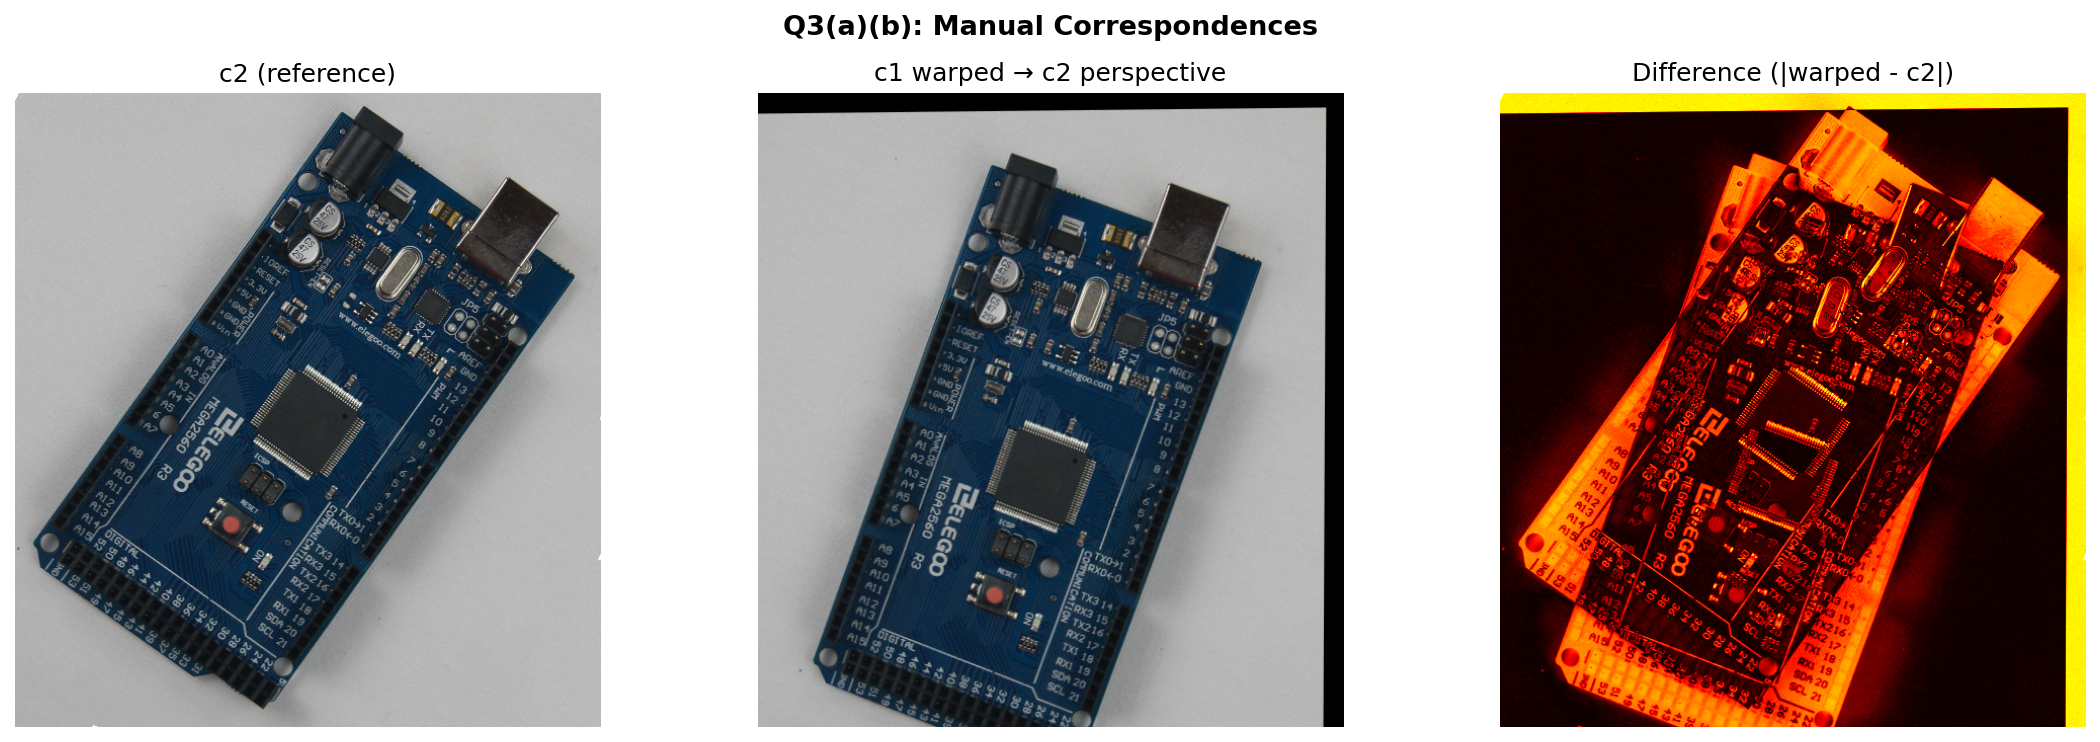
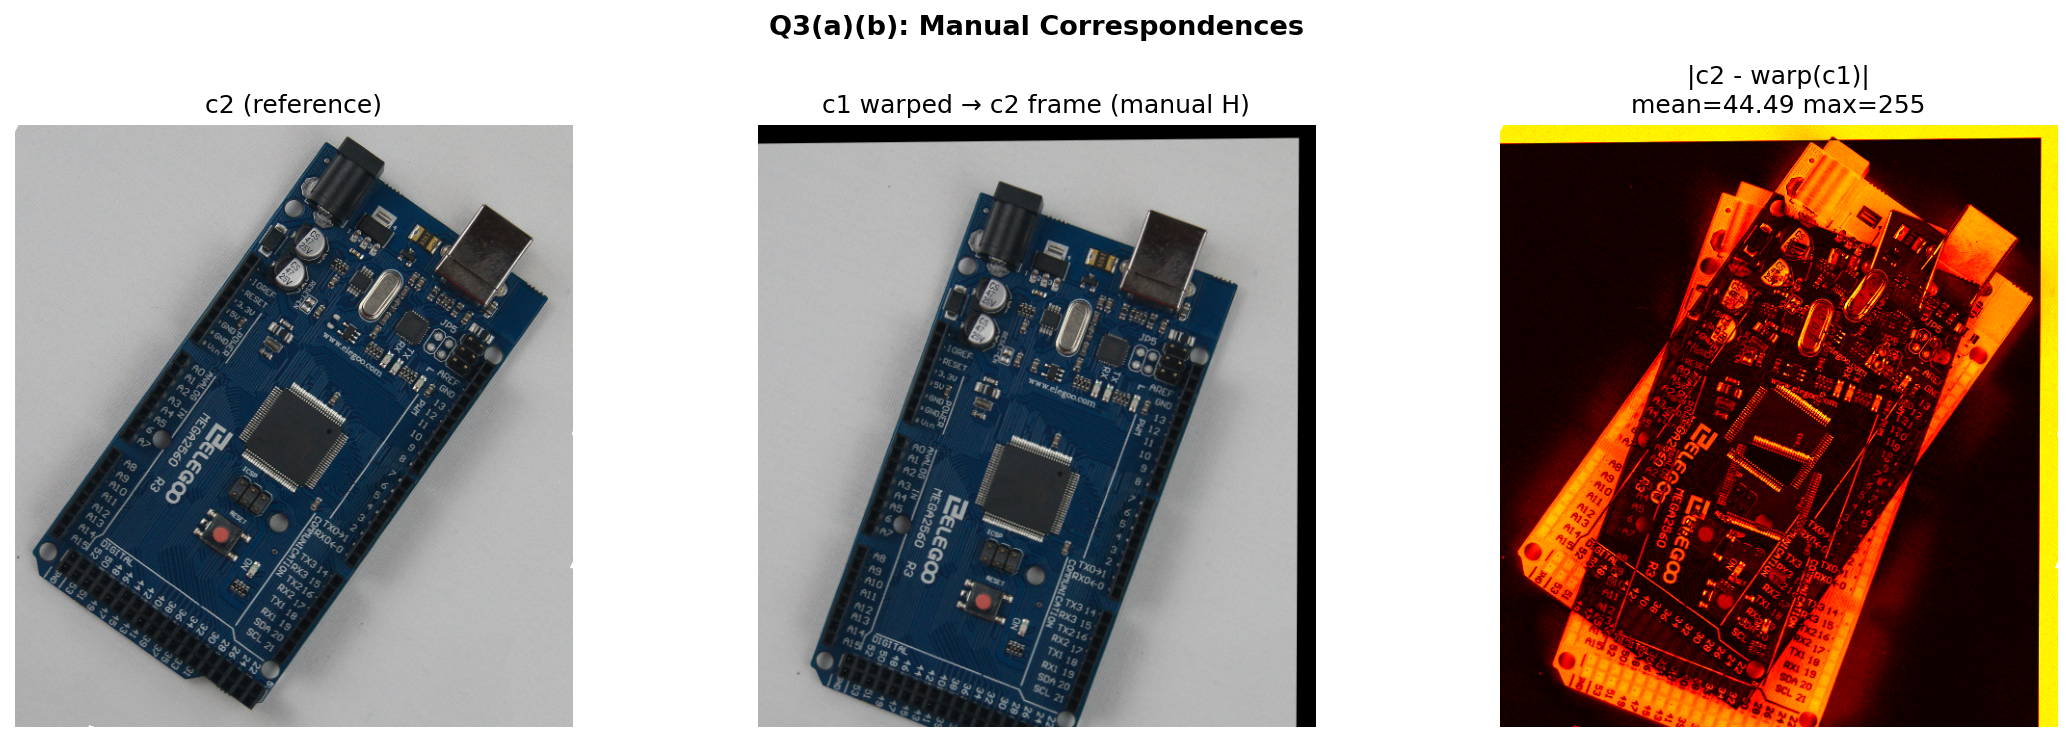
feat: add quantitative difference metrics and improve SIFT preprocessing with median filtering for homography estimation

diff --git a/question3.py b/question3.py
@@ -10,6 +10,8 @@ scale = 0.25
 im1s = cv2.resize(im1, None, fx=scale, fy=scale)
 im2s = cv2.resize(im2, None, fx=scale, fy=scale)
 print(f"  Working image sizes: {im1s.shape[:2]}, {im2s.shape[:2]}")
+
+# ---- 3(a)+(b): Manual Homography using DLT (method=0, no RANSAC) ----
 pts1 = np.float32([
     [165, 43],   # top-left of board
     [236, 28],   # near USB connector top
@@ -26,65 +28,102 @@ pts2 = np.float32([
     [32,  238],
     [210, 268],
 ])
-H_manual, mask_H = cv2.findHomography(pts1, pts2, cv2.RANSAC, 5.0)
-print(f"  Manual homography computed. Inliers: {mask_H.sum()}/6")
+
+H_manual, _ = cv2.findHomography(pts1, pts2, method=0)
+print(f"\n  Manual homography H (DLT):\n{np.round(H_manual, 4)}")
 h2, w2 = im2s.shape[:2]
 im1_warped_manual = cv2.warpPerspective(im1s, H_manual, (w2, h2))
 diff_manual = cv2.absdiff(im1_warped_manual, im2s)
 diff_manual_gray = cv2.cvtColor(diff_manual, cv2.COLOR_BGR2GRAY)
 _, diff_thresh = cv2.threshold(diff_manual_gray, 30, 255, cv2.THRESH_BINARY)
- 
-# ---- 3(c)+(d): SIFT keypoints and automatic homography ----
+
+# ADDED: Quantitative mean diff reporting
+mean_diff_manual = diff_manual_gray.mean()
+print(f"  Manual warp  |c2 - warp(c1)|  mean={mean_diff_manual:.2f}  max={diff_manual_gray.max()}")
+
+# ---- 3(c)+(d): SIFT with median+Gaussian preprocessing ----
+# CHANGED: Apply median filter BEFORE Gaussian for better noise removal
+def preprocess_for_sift(img_bgr):
+    gray = cv2.cvtColor(img_bgr, cv2.COLOR_BGR2GRAY)
+    gray = cv2.medianBlur(gray, 5)        # ADDED: median filter first
+    gray = cv2.GaussianBlur(gray, (5,5), 2)  # then Gaussian
+    return gray
+
+gray1 = preprocess_for_sift(im1s)
+gray2 = preprocess_for_sift(im2s)
+
 sift = cv2.SIFT_create()
-kp1, des1 = sift.detectAndCompute(cv2.cvtColor(im1s, cv2.COLOR_BGR2GRAY), None)
-kp2, des2 = sift.detectAndCompute(cv2.cvtColor(im2s, cv2.COLOR_BGR2GRAY), None)
-print(f"  SIFT keypoints: {len(kp1)} in c1, {len(kp2)} in c2")
-bf = cv2.BFMatcher()
+kp1, des1 = sift.detectAndCompute(gray1, None)
+kp2, des2 = sift.detectAndCompute(gray2, None)
+print(f"\n  SIFT keypoints: {len(kp1)} in c1, {len(kp2)} in c2")
+bf = cv2.BFMatcher(cv2.NORM_L2)
 raw_matches = bf.knnMatch(des1, des2, k=2)
 good_matches = [m for m, n in raw_matches if m.distance < 0.75 * n.distance]
 print(f"  Good SIFT matches after ratio test: {len(good_matches)}")
-img_matches = cv2.drawMatches(im1s, kp1, im2s, kp2, good_matches[:50], None,
+top = sorted(good_matches, key=lambda m: m.distance)[:60]
+img_matches = cv2.drawMatches(im1s, kp1, im2s, kp2, top, None,
                                flags=cv2.DrawMatchesFlags_NOT_DRAW_SINGLE_POINTS)
+
 pts1_sift = np.float32([kp1[m.queryIdx].pt for m in good_matches]).reshape(-1,1,2)
 pts2_sift = np.float32([kp2[m.trainIdx].pt for m in good_matches]).reshape(-1,1,2)
+
 H_sift, mask_sift = cv2.findHomography(pts1_sift, pts2_sift, cv2.RANSAC, 5.0)
 n_inliers_sift = mask_sift.sum() if mask_sift is not None else 0
 print(f"  SIFT homography inliers: {n_inliers_sift}/{len(good_matches)}")
+
 im1_warped_sift = cv2.warpPerspective(im1s, H_sift, (w2, h2))
 diff_sift = cv2.absdiff(im1_warped_sift, im2s)
 diff_sift_gray = cv2.cvtColor(diff_sift, cv2.COLOR_BGR2GRAY)
 _, diff_sift_thresh = cv2.threshold(diff_sift_gray, 30, 255, cv2.THRESH_BINARY)
- 
+
+# ADDED: Quantitative mean diff reporting for SIFT
+mean_diff_sift = diff_sift_gray.mean()
+print(f"  SIFT warp    |c2 - warp(c1)|  mean={mean_diff_sift:.2f}  max={diff_sift_gray.max()}")
+print(f"\n  Improvement: {((mean_diff_manual - mean_diff_sift)/mean_diff_manual)*100:.1f}% reduction in mean diff")
+
 # ---- Save all Q3 figures ----
-# Figure 3a: Manual warped + diff
+
+# Figure 3a+b: Manual warped + diff
 fig3a, axes = plt.subplots(1, 3, figsize=(15, 5))
 fig3a.suptitle("Q3(a)(b): Manual Correspondences", fontsize=13, fontweight='bold')
-axes[0].imshow(cv2.cvtColor(im2s, cv2.COLOR_BGR2RGB)); axes[0].set_title("c2 (reference)"); axes[0].axis('off')
-axes[1].imshow(cv2.cvtColor(im1_warped_manual, cv2.COLOR_BGR2RGB)); axes[1].set_title("c1 warped → c2 perspective"); axes[1].axis('off')
-axes[2].imshow(diff_manual_gray, cmap='hot'); axes[2].set_title("Difference (|warped - c2|)"); axes[2].axis('off')
+axes[0].imshow(cv2.cvtColor(im2s, cv2.COLOR_BGR2RGB))
+axes[0].set_title("c2 (reference)"); axes[0].axis('off')
+axes[1].imshow(cv2.cvtColor(im1_warped_manual, cv2.COLOR_BGR2RGB))
+axes[1].set_title("c1 warped → c2 frame (manual H)"); axes[1].axis('off')
+axes[2].imshow(diff_manual_gray, cmap='hot')
+axes[2].set_title(f"|c2 - warp(c1)|\nmean={mean_diff_manual:.2f} max={diff_manual_gray.max()}")
+axes[2].axis('off')
 plt.tight_layout()
 plt.savefig("q3_manual.png", dpi=150, bbox_inches='tight')
 plt.close()
- 
+print("  Saved q3_manual.png")
+
 # Figure 3c: SIFT matches
 fig3c, ax3c = plt.subplots(figsize=(16, 5))
 ax3c.imshow(cv2.cvtColor(img_matches, cv2.COLOR_BGR2RGB))
-ax3c.set_title(f"Q3(c): SIFT Matches (showing top 50 of {len(good_matches)} good matches)", fontsize=12)
+ax3c.set_title(
+    f"Q3(c): SIFT + Lowe ratio matches (top 60 of {len(good_matches)} good matches)", 
+    fontsize=12
+)
 ax3c.axis('off')
 plt.tight_layout()
 plt.savefig("q3_sift_matches.png", dpi=150, bbox_inches='tight')
 plt.close()
- 
+print("  Saved q3_sift_matches.png")
+
 # Figure 3d: SIFT warped + diff
 fig3d, axes = plt.subplots(1, 3, figsize=(15, 5))
 fig3d.suptitle("Q3(d): SIFT-based Homography", fontsize=13, fontweight='bold')
-axes[0].imshow(cv2.cvtColor(im2s, cv2.COLOR_BGR2RGB)); axes[0].set_title("c2 (reference)"); axes[0].axis('off')
-axes[1].imshow(cv2.cvtColor(im1_warped_sift, cv2.COLOR_BGR2RGB)); axes[1].set_title("c1 warped (SIFT)"); axes[1].axis('off')
-axes[2].imshow(diff_sift_gray, cmap='hot'); axes[2].set_title("Difference (SIFT)"); axes[2].axis('off')
+axes[0].imshow(cv2.cvtColor(im2s, cv2.COLOR_BGR2RGB))
+axes[0].set_title("c2 (reference)"); axes[0].axis('off')
+axes[1].imshow(cv2.cvtColor(im1_warped_sift, cv2.COLOR_BGR2RGB))
+axes[1].set_title("c1 warped (SIFT+RANSAC)"); axes[1].axis('off')
+axes[2].imshow(diff_sift_gray, cmap='hot')
+axes[2].set_title(f"|c2 - warp(c1)| — SIFT\nmean={mean_diff_sift:.2f} max={diff_sift_gray.max()}")
+axes[2].axis('off')
 plt.tight_layout()
 plt.savefig("q3_sift.png", dpi=150, bbox_inches='tight')
 plt.close()
- 
-print("Q3 plots saved.")
-print("\nAll computations complete.")
- 
+print("  Saved q3_sift.png")
+
+print("\nAll Q3 computations complete.")
